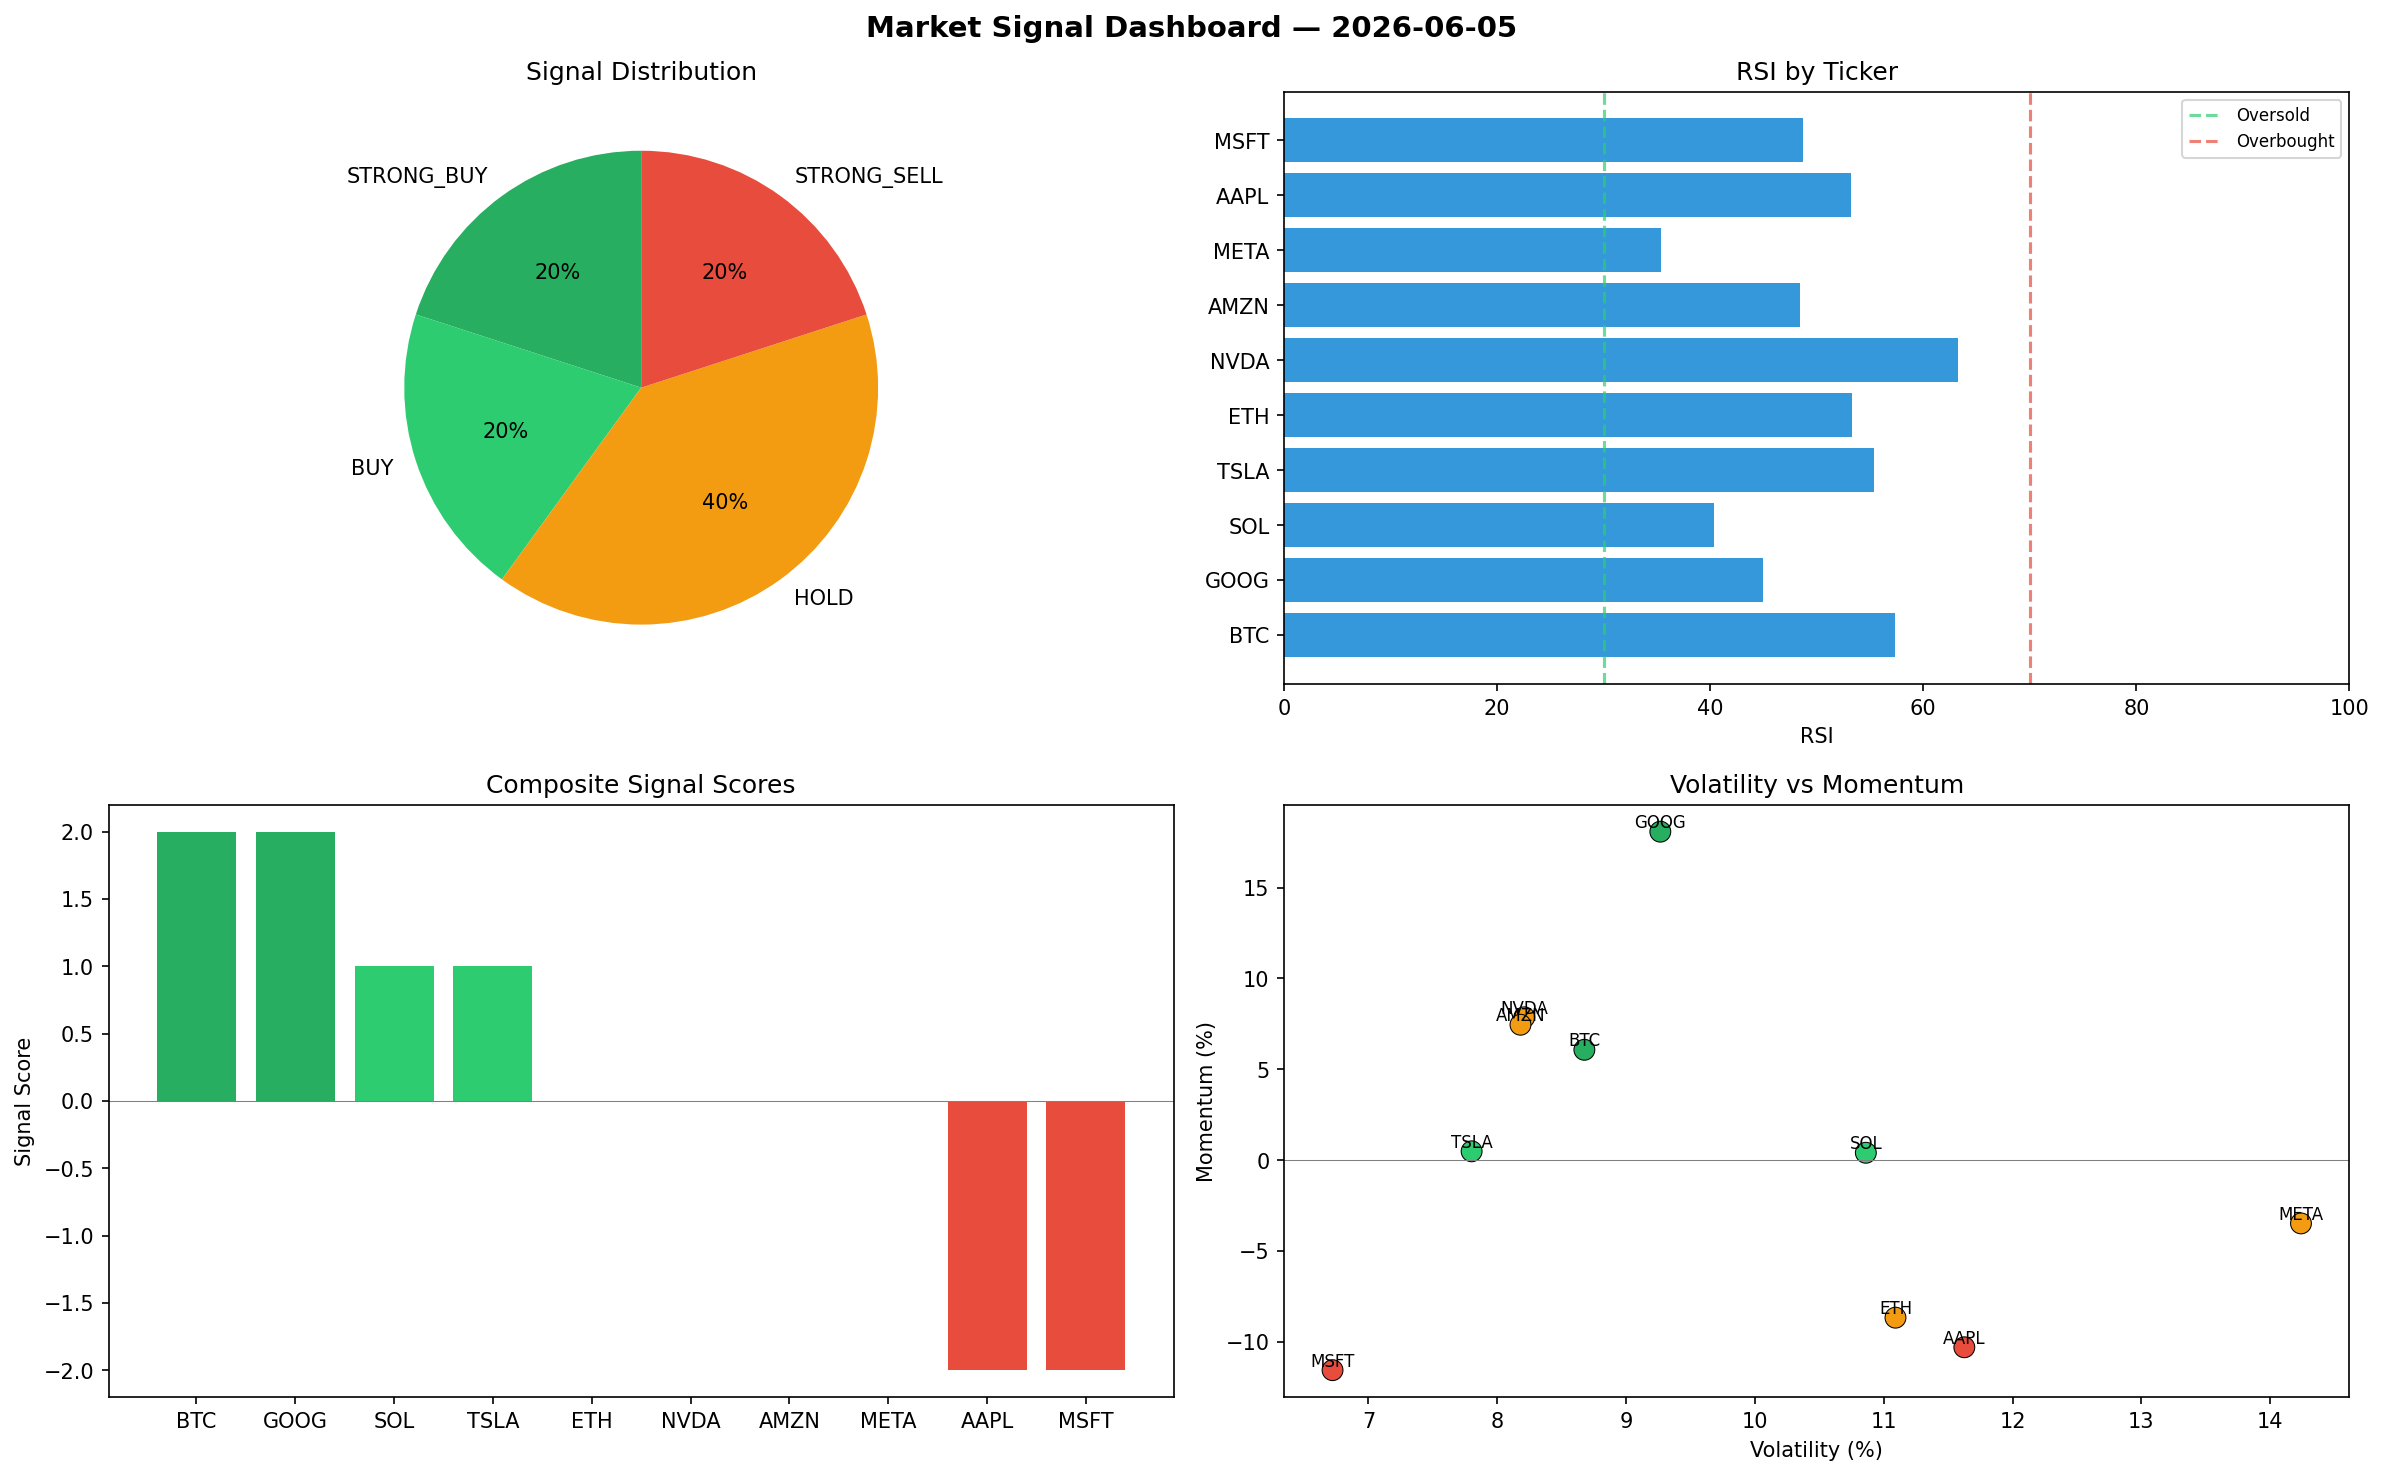
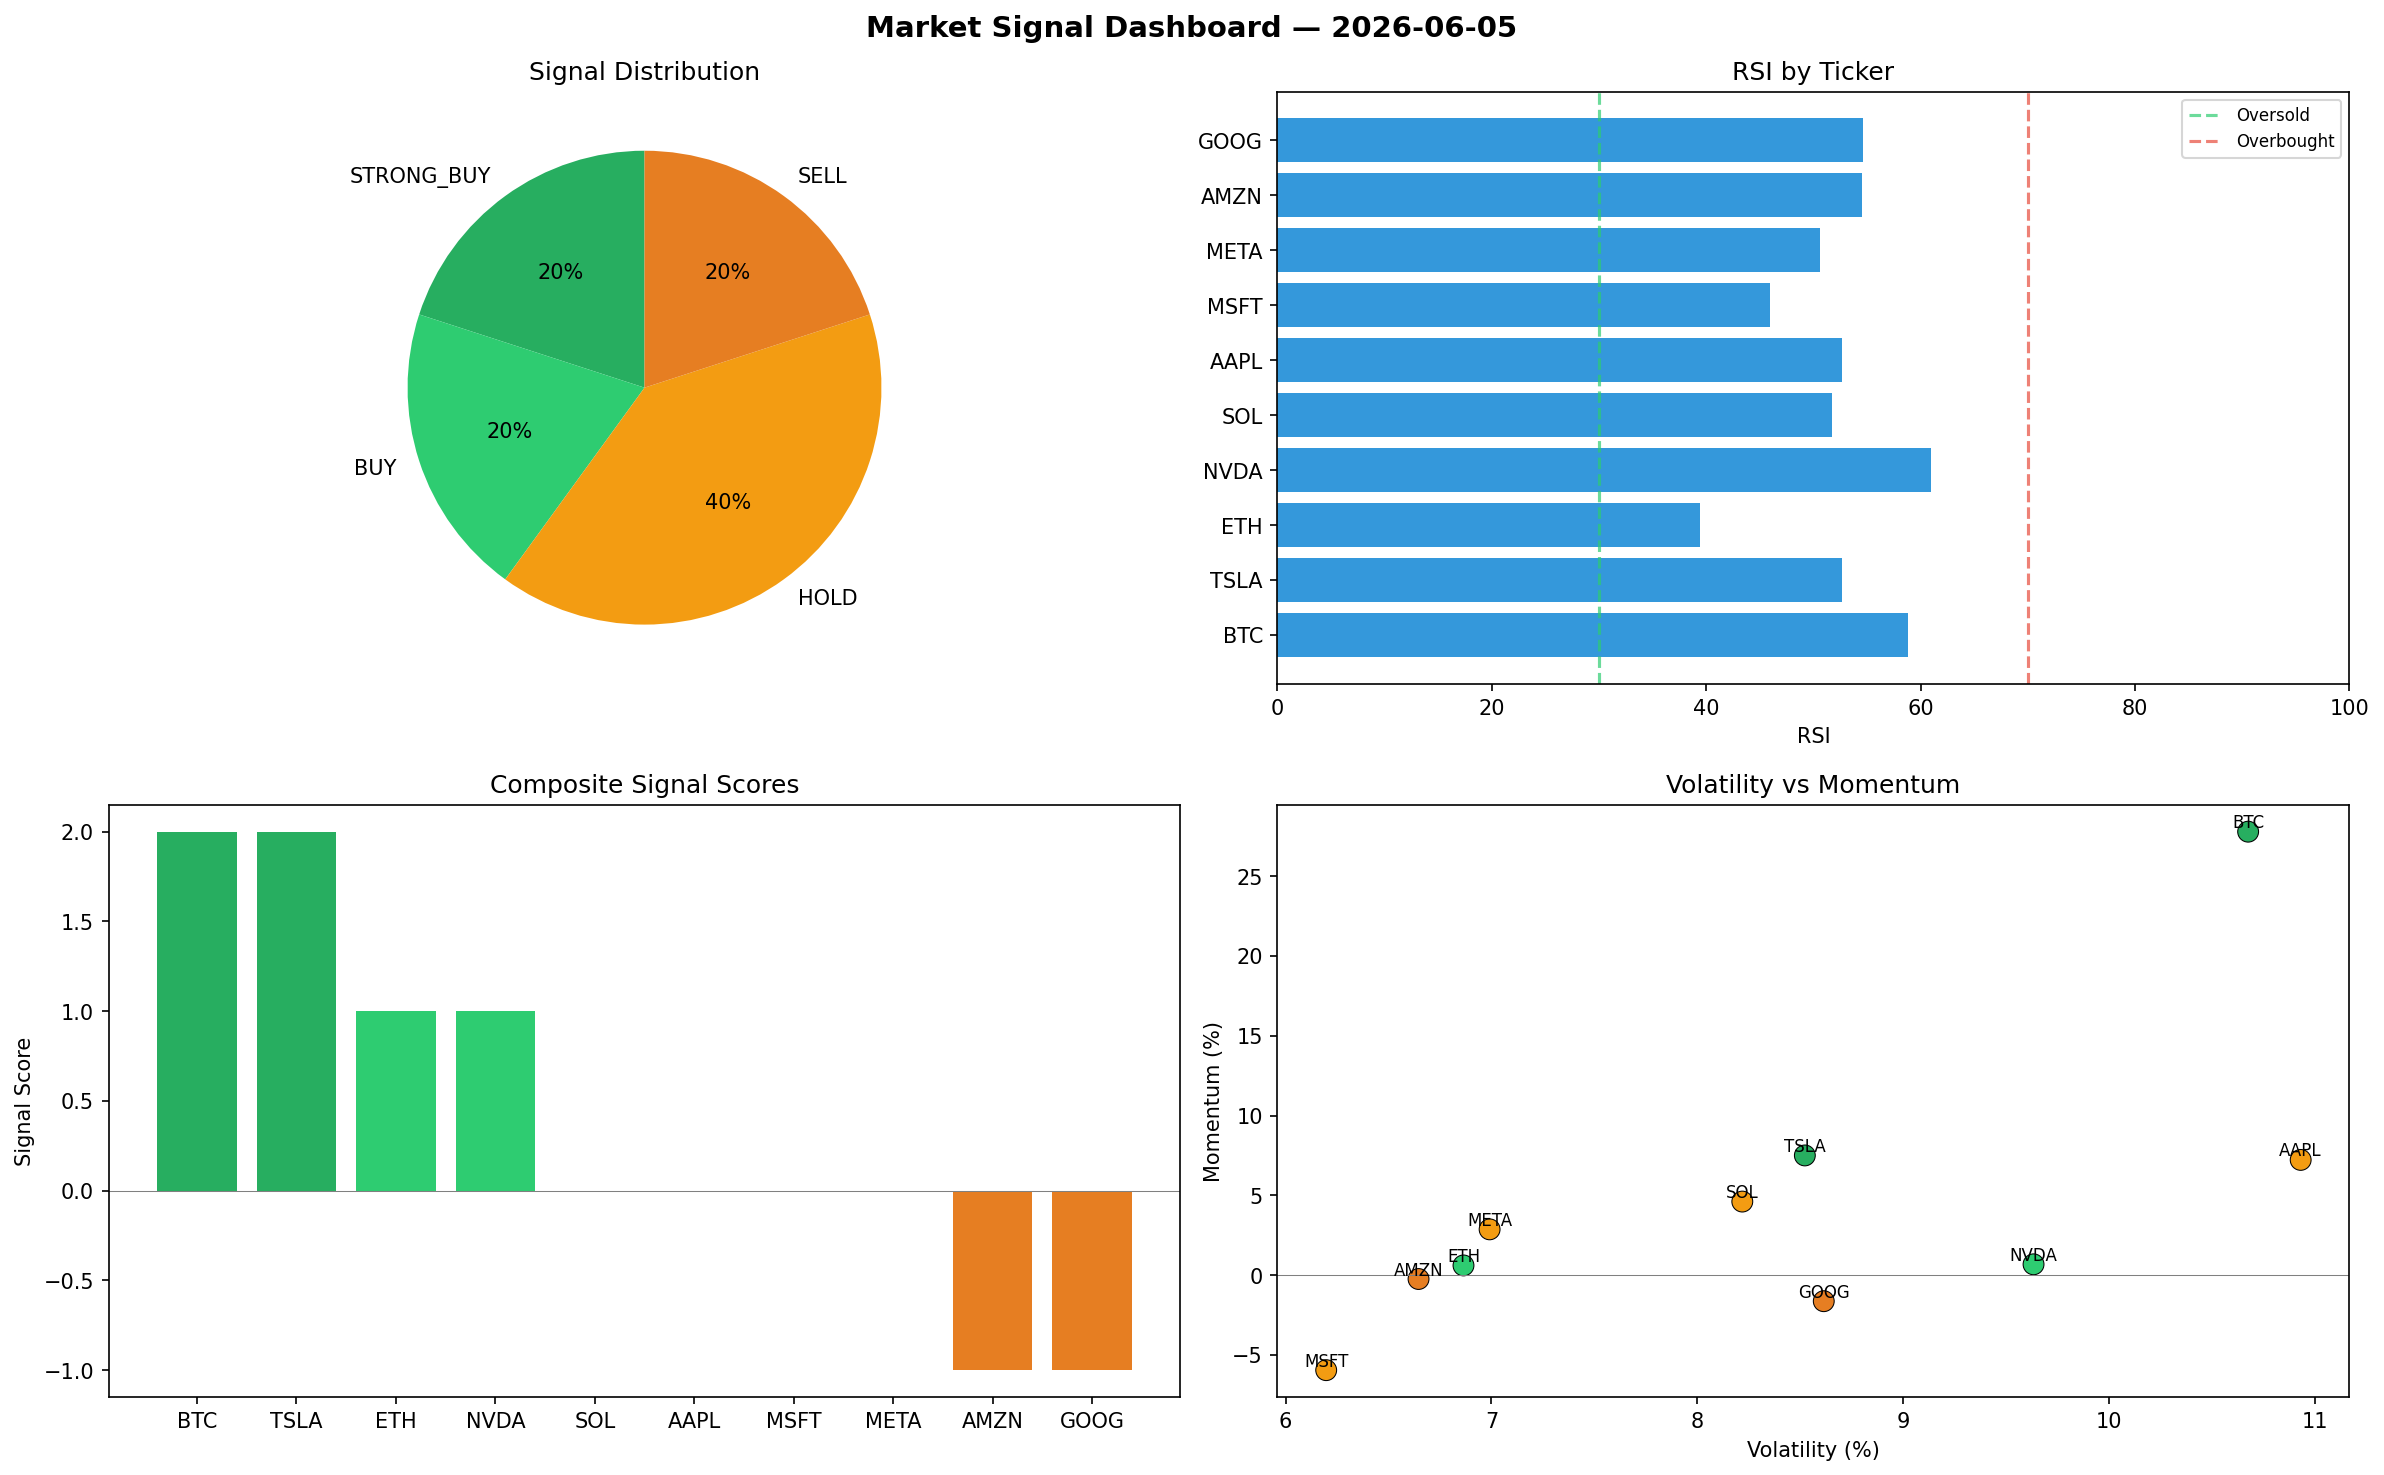
automated-bots: market signals 2026-06-05T11:40

diff --git a/logs/2026-06-05.md b/logs/2026-06-05.md
@@ -1,6 +1,6 @@
 # Market Signal Report — 2026-06-05
 
-**Run ID:** `6b28a37e77` | **Buy:** 4 | **Sell:** 2 | **Hold:** 4
+**Run ID:** `19ce1d7db9` | **Buy:** 4 | **Sell:** 2 | **Hold:** 4
 
 ![Dashboard](2026-06-05_dashboard.png)
 
@@ -8,28 +8,28 @@
 
 | Ticker | Price | Signal | Score | RSI | Momentum | Confidence |
 |--------|-------|--------|-------|-----|----------|------------|
-| BTC | $656.14 | **STRONG_BUY** | 2 | 57.35 | 0.0607 | 0.5 |
-| GOOG | $1282.85 | **STRONG_BUY** | 2 | 44.92 | 0.1808 | 0.5 |
-| SOL | $2024.45 | **BUY** | 1 | 40.34 | 0.004 | 0.25 |
-| TSLA | $1503.31 | **BUY** | 1 | 55.39 | 0.0048 | 0.25 |
-| ETH | $22.09 | **HOLD** | 0 | 53.27 | -0.0868 | 0.0 |
-| NVDA | $2645.28 | **HOLD** | 0 | 63.26 | 0.0786 | 0.0 |
-| AMZN | $4081.11 | **HOLD** | 0 | 48.38 | 0.0745 | 0.0 |
-| META | $4787.21 | **HOLD** | 0 | 35.37 | -0.0349 | 0.0 |
-| AAPL | $240.25 | **STRONG_SELL** | -2 | 53.23 | -0.1031 | 0.5 |
-| MSFT | $4221.12 | **STRONG_SELL** | -2 | 48.75 | -0.1157 | 0.5 |
+| BTC | $1727.7 | **STRONG_BUY** | 2 | 58.84 | 0.2778 | 0.5 |
+| TSLA | $2737.76 | **STRONG_BUY** | 2 | 52.67 | 0.075 | 0.5 |
+| ETH | $4145.83 | **BUY** | 1 | 39.41 | 0.0061 | 0.25 |
+| NVDA | $2339.49 | **BUY** | 1 | 60.95 | 0.0068 | 0.25 |
+| SOL | $2622.65 | **HOLD** | 0 | 51.71 | 0.0461 | 0.0 |
+| AAPL | $4693.73 | **HOLD** | 0 | 52.62 | 0.0722 | 0.0 |
+| MSFT | $3809.93 | **HOLD** | 0 | 45.96 | -0.0595 | 0.0 |
+| META | $734.85 | **HOLD** | 0 | 50.63 | 0.0287 | 0.0 |
+| AMZN | $3703.76 | **SELL** | -1 | 54.56 | -0.0024 | 0.25 |
+| GOOG | $2362.08 | **SELL** | -1 | 54.64 | -0.0163 | 0.25 |
 
 ## Delta vs Yesterday
 
 | Ticker | Today | Yesterday | Price Change | Signal Changed |
 |--------|-------|-----------|-------------|----------------|
-| BTC | STRONG_BUY | HOLD | 📉 -85.16% | ⚠ YES |
-| GOOG | STRONG_BUY | SELL | 📉 -15.29% | ⚠ YES |
-| SOL | BUY | STRONG_SELL | 📉 -27.52% | ⚠ YES |
-| TSLA | BUY | HOLD | 📉 -35.65% | ⚠ YES |
-| ETH | HOLD | STRONG_SELL | 📉 -59.66% | ⚠ YES |
-| NVDA | HOLD | STRONG_BUY | 📈 32.37% | ⚠ YES |
-| AMZN | HOLD | SELL | 📈 21.49% | ⚠ YES |
-| META | HOLD | STRONG_SELL | 📉 -0.33% | ⚠ YES |
-| AAPL | STRONG_SELL | HOLD | 📉 -93.0% | ⚠ YES |
-| MSFT | STRONG_SELL | STRONG_BUY | 📈 1070.36% | ⚠ YES |
+| BTC | STRONG_BUY | HOLD | 📉 -60.92% | ⚠ YES |
+| TSLA | STRONG_BUY | HOLD | 📈 17.2% | ⚠ YES |
+| ETH | BUY | STRONG_SELL | 📈 7470.91% | ⚠ YES |
+| NVDA | BUY | STRONG_BUY | 📈 17.06% | ⚠ YES |
+| SOL | HOLD | STRONG_SELL | 📉 -6.1% | ⚠ YES |
+| AAPL | HOLD | HOLD | 📈 36.78% | — |
+| MSFT | HOLD | STRONG_BUY | 📈 956.35% | ⚠ YES |
+| META | HOLD | STRONG_SELL | 📉 -84.7% | ⚠ YES |
+| AMZN | SELL | SELL | 📈 10.26% | — |
+| GOOG | SELL | SELL | 📈 55.97% | — |
